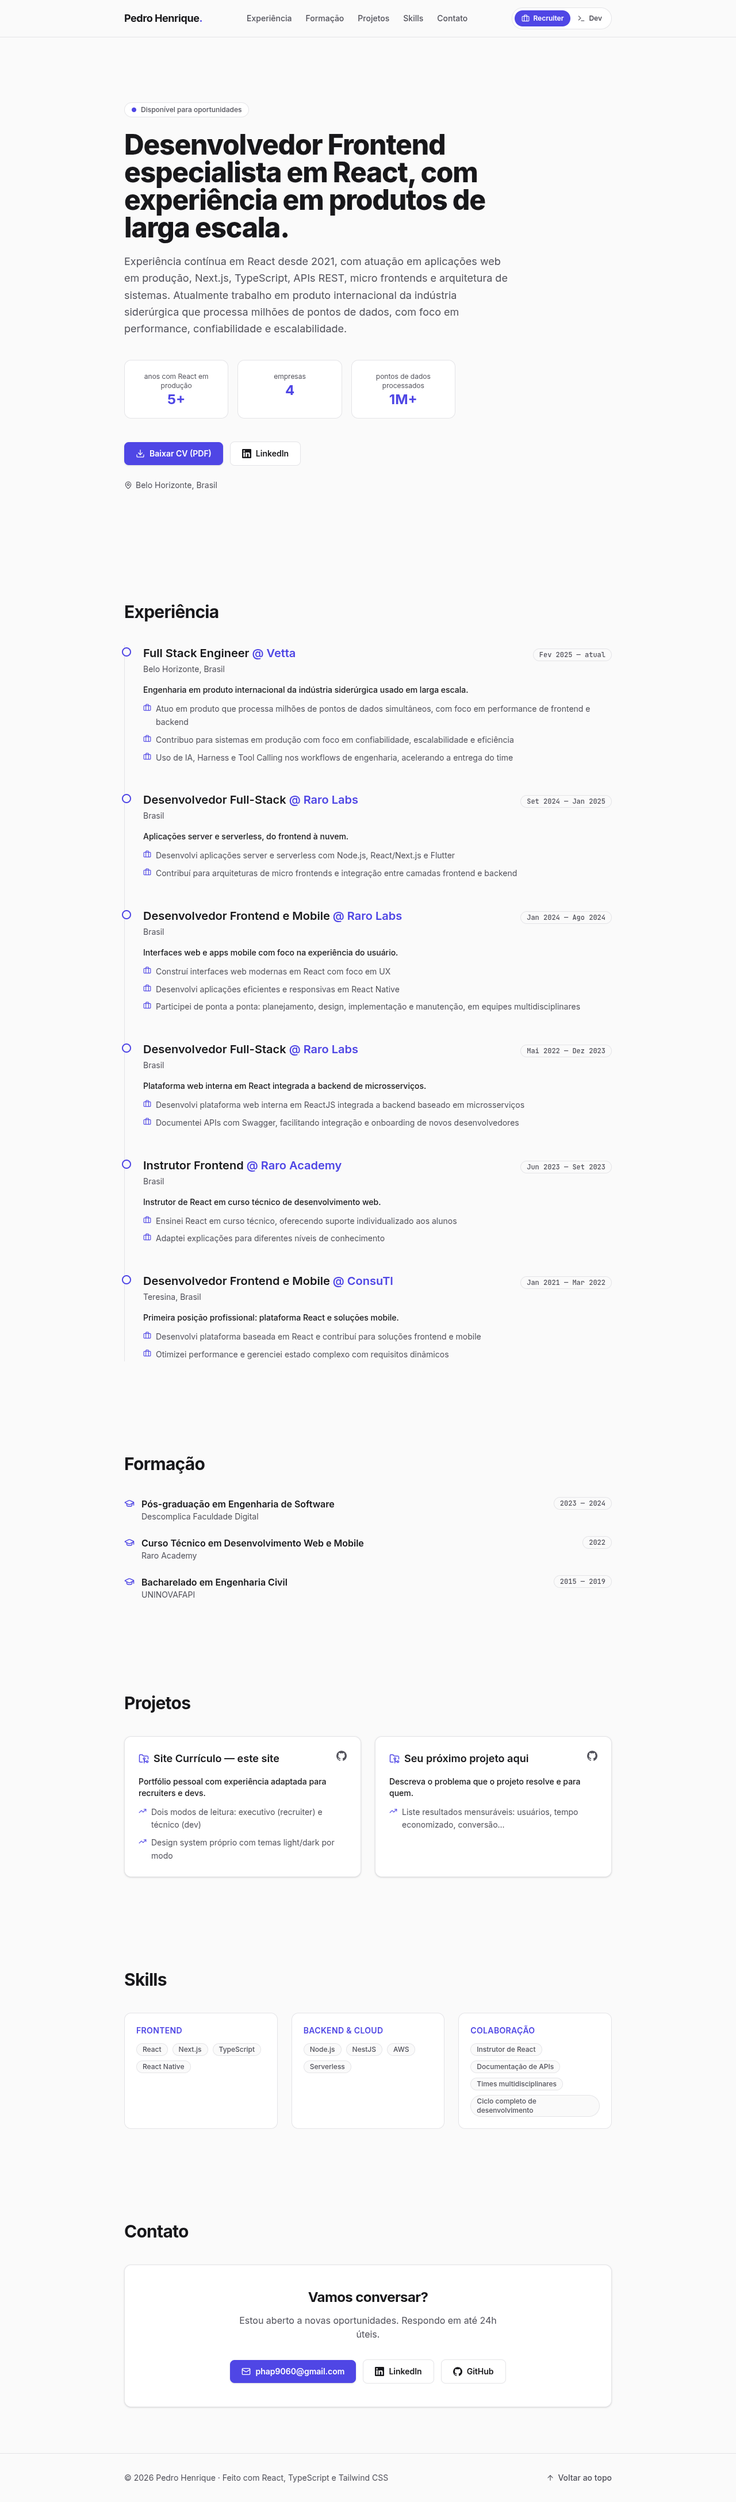
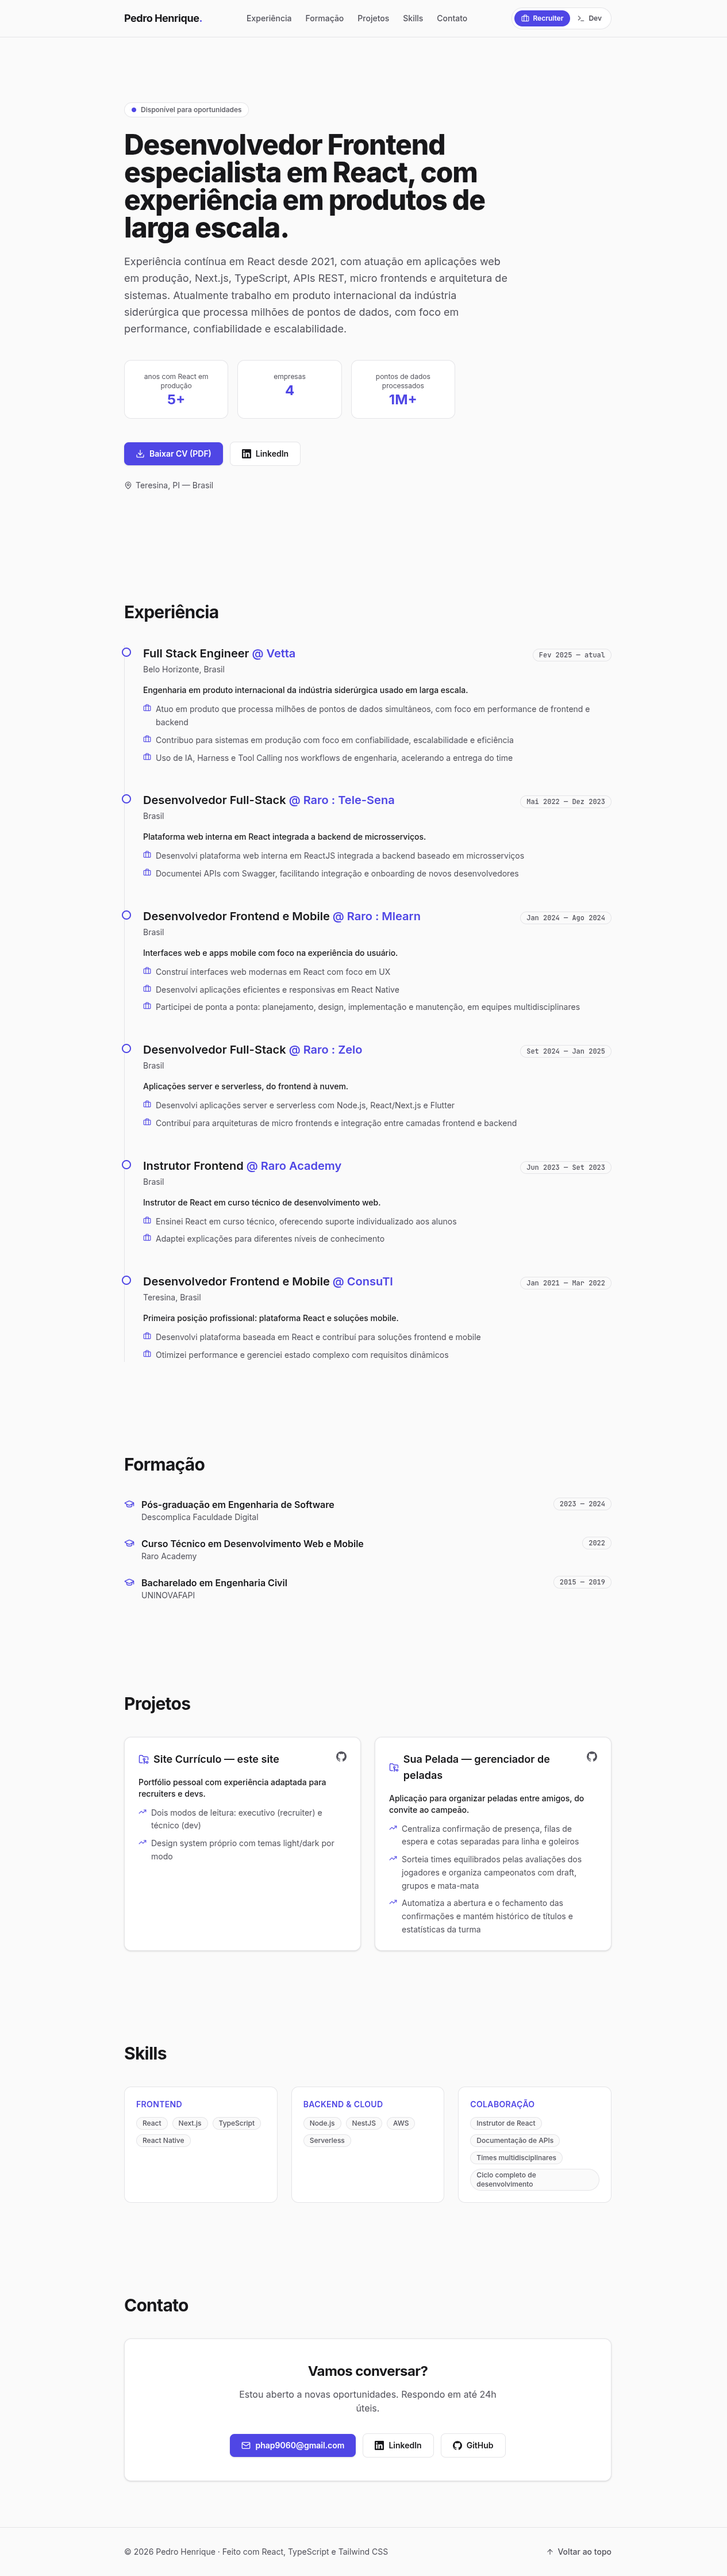
feat: adicionar projeto Sua Pelada e tornar modo dev o padrão

diff --git a/src/data/profile.ts b/src/data/profile.ts
@@ -81,17 +81,30 @@ const projects: Project[] = [
         'SPA em React com design tokens semânticos em CSS custom properties. Contexto de modo alterna tema light/dark e o conteúdo de cada seção, com persistência em localStorage.',
     },
   },
-  // TODO: substitua o projeto abaixo por um projeto real seu.
   {
-    name: 'Seu próximo projeto aqui',
-    repoUrl: 'https://github.com/phap9060',
+    name: 'Sua Pelada — gerenciador de peladas',
+    repoUrl: 'https://github.com/phap9060/sua-pelada',
     recruiter: {
-      tagline: 'Descreva o problema que o projeto resolve e para quem.',
-      impact: ['Liste resultados mensuráveis: usuários, tempo economizado, conversão...'],
+      tagline: 'Aplicação para organizar peladas entre amigos, do convite ao campeão.',
+      impact: [
+        'Centraliza confirmação de presença, filas de espera e cotas separadas para linha e goleiros',
+        'Sorteia times equilibrados pelas avaliações dos jogadores e organiza campeonatos com draft, grupos e mata-mata',
+        'Automatiza a abertura e o fechamento das confirmações e mantém histórico de títulos e estatísticas da turma',
+      ],
     },
     dev: {
-      stack: ['Stack', 'Do', 'Projeto'],
-      architecture: 'Descreva a arquitetura, decisões técnicas e trade-offs do projeto.',
+      stack: [
+        'React 19',
+        'TypeScript',
+        'Mantine',
+        'TanStack Query',
+        'Bun',
+        'Elysia',
+        'Drizzle ORM',
+        'PostgreSQL',
+      ],
+      architecture:
+        'Monorepo com SPA em React 19 (Mantine + TanStack Query) e API em Bun/Elysia com autenticação JWT. Drizzle ORM sobre PostgreSQL, scheduler para abrir e fechar confirmações, sorteio balanceado por médias de avaliação e campeonatos com draft serpentina, fase de grupos e mata-mata.',
     },
   },
 ]

diff --git a/index.html b/index.html
@@ -4,6 +4,18 @@
     <meta charset="UTF-8" />
     <link rel="icon" type="image/svg+xml" href="/favicon.svg" />
     <meta name="viewport" content="width=device-width, initial-scale=1.0" />
+    <script>
+      ;(() => {
+        try {
+          const stored = localStorage.getItem('portfolio-mode')
+          const mode = stored === 'recruiter' ? 'recruiter' : 'dev'
+          document.documentElement.classList.toggle('dark', mode === 'dev')
+          document.documentElement.dataset.mode = mode
+        } catch {
+          document.documentElement.classList.add('dark')
+        }
+      })()
+    </script>
     <meta
       name="description"
       content="Portfólio de Pedro Henrique Assunção Pereira — Desenvolvedor Frontend especialista em React, TypeScript e Next.js, com experiência em produtos de larga escala."

diff --git a/src/context/ModeProvider.tsx b/src/context/ModeProvider.tsx
@@ -7,14 +7,14 @@ const STORAGE_KEY = 'portfolio-mode'
 
 function getInitialMode(): Mode {
   const stored = localStorage.getItem(STORAGE_KEY)
-  return stored === 'dev' ? 'dev' : 'recruiter'
+  return stored === 'recruiter' ? 'recruiter' : 'dev'
 }
 
 export function ModeProvider({ children }: { children: ReactNode }) {
   const [mode, setMode] = useState<Mode>(getInitialMode)
 
   useEffect(() => {
-    // Modo dev usa o tema dark; modo recruiter usa o tema light (padrão).
+    // Modo dev usa o tema dark (padrão); modo recruiter usa o tema light.
     document.documentElement.classList.toggle('dark', mode === 'dev')
     document.documentElement.dataset.mode = mode
     localStorage.setItem(STORAGE_KEY, mode)

diff --git a/README.md b/README.md
@@ -26,8 +26,8 @@ mesmo perfil, alternáveis por um toggle no topo.
 
 | Modo | Tema | O que mostra |
 |---|---|---|
-| **Recruiter** (padrão) | Claro, accent índigo | Impacto, resultados, métricas e download do CV em PDF |
-| **Dev** | Escuro, accent esmeralda | Stack, arquitetura, decisões técnicas e um terminal no hero |
+| **Dev** (padrão) | Escuro, accent esmeralda | Stack, arquitetura, decisões técnicas e um terminal no hero |
+| **Recruiter** | Claro, accent índigo | Impacto, resultados, métricas e download do CV em PDF |
 
 O modo escolhido fica salvo em `localStorage`, então a preferência persiste entre
 visitas. A troca não muda só as cores: **o conteúdo, a organização e a linguagem de
@@ -89,10 +89,6 @@ atualiza. Não há texto de perfil hardcoded nos componentes.
 
 O botão **"Baixar CV (PDF)"** aponta para `public/cv.pdf`. Para atualizar o CV, basta
 substituir esse arquivo.
-
-### Pendências conhecidas
-
-- [ ] Substituir o projeto placeholder ("Seu próximo projeto aqui") por projetos reais
 
 ## Estrutura do projeto
 

diff --git a/docs/UI.md b/docs/UI.md
@@ -9,13 +9,13 @@ modos de exibição (recruiter e dev) e devem ser seguidas em qualquer component
 
 O site tem duas personalidades visuais, controladas pelo `ModeProvider`:
 
-| | **Recruiter** (padrão) | **Dev** |
+| | **Dev** (padrão) | **Recruiter** |
 |---|---|---|
-| Tema | Light | Dark (classe `.dark` no `<html>`) |
-| Personalidade | Limpo, executivo, direto | Terminal, mono, técnico |
-| Accent | Índigo `#4f46e5` | Esmeralda `#34d399` |
-| Títulos de seção | Texto puro | Prefixo `##` em mono |
-| Rótulos/categorias | Texto puro | Prefixo `//` em mono |
+| Tema | Dark (classe `.dark` no `<html>`) | Light |
+| Personalidade | Terminal, mono, técnico | Limpo, executivo, direto |
+| Accent | Esmeralda `#34d399` | Índigo `#4f46e5` |
+| Títulos de seção | Prefixo `##` em mono | Texto puro |
+| Rótulos/categorias | Prefixo `//` em mono | Texto puro |
 
 Nunca crie um componente que exista só para um modo sem motivo. O padrão é:
 **mesma estrutura, conteúdo e tema diferentes por modo.**
